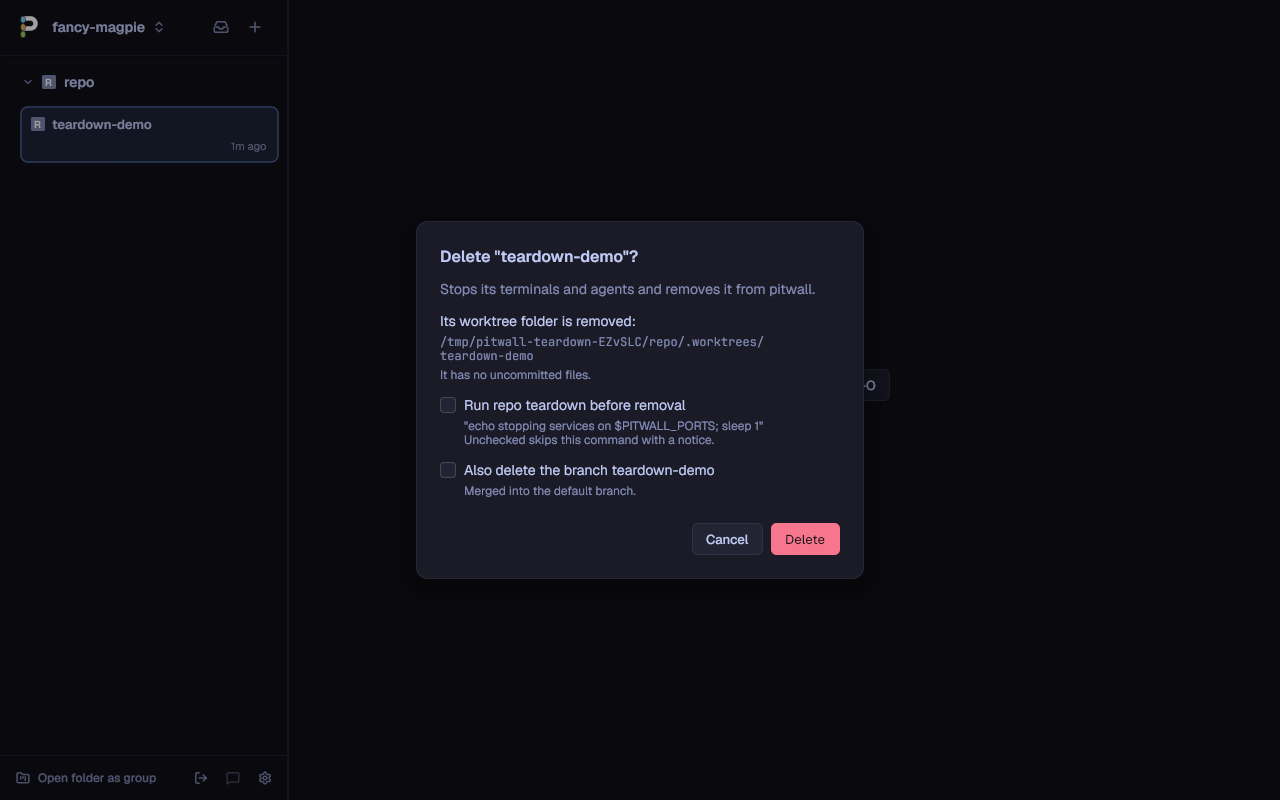
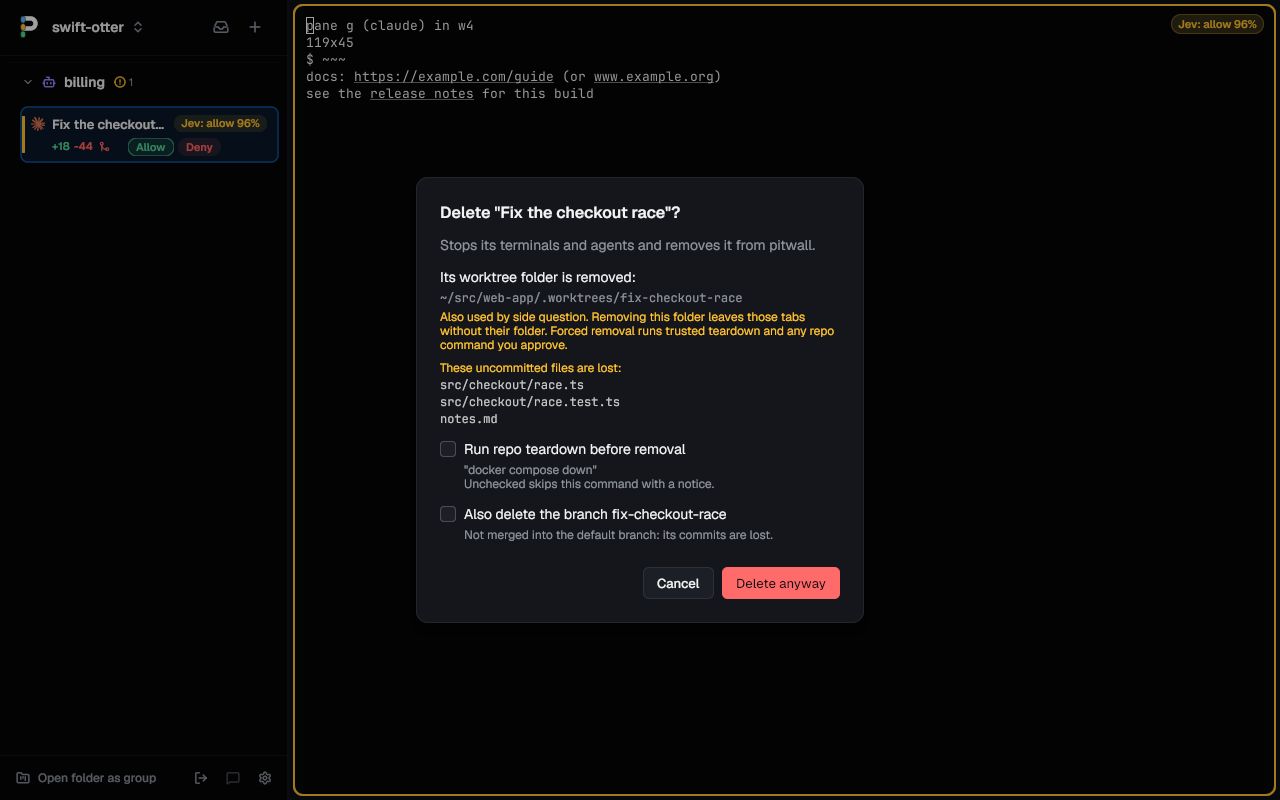
Keep shared-folder checks ahead of teardown

diff --git a/internal/daemon/teardown_review_test.go b/internal/daemon/teardown_review_test.go
@@ -277,3 +277,47 @@ func TestGoneWorktreeCanBeDeletedWithTeardown(t *testing.T) {
 		t.Fatalf("notice %q", d.state().Notice)
 	}
 }
+
+func TestSharedWorktreeRefusesBeforeTeardown(t *testing.T) {
+	for _, mode := range []string{"delete", "archive", "orphan", "force", "force skips"} {
+		t.Run(mode, func(t *testing.T) {
+			d, repo, cfg := teardownRepo(t)
+			owner := reviewTree(t, d, "feature")
+			sub := filepath.Join(owner.Path, "sub")
+			must(t, os.Mkdir(sub, 0o700))
+			must(t, d.handle(t.Context(), proto.NewSession{Name: "side question", Cwd: sub}))
+			must(t, os.WriteFile(cfg, []byte("[worktrees]\nteardown = 'touch ../../stopped'"), 0o600))
+			if mode == "orphan" {
+				must(t, d.handle(t.Context(), proto.KillSession{WorkspaceID: owner.ID}))
+				if err := d.handle(t.Context(), proto.DeleteWorktree{Root: repo, Path: owner.Path, Force: true}); err == nil {
+					t.Fatal("shared orphan removed")
+				}
+			} else if mode == "archive" {
+				mergeReviewTrees(d, t.Context())
+				d.worktreeJobs.Wait()
+			} else if err := d.handle(t.Context(), proto.DeleteWorkspace{WorkspaceID: owner.ID}); err == nil {
+				t.Fatal("shared worktree removed")
+			}
+			if _, err := os.Stat(sub); err != nil {
+				t.Fatal("shared folder lost", err)
+			}
+			marker := filepath.Join(repo, "stopped")
+			if _, err := os.Stat(marker); !os.IsNotExist(err) {
+				t.Fatal("teardown ran before the shared-folder refusal", err)
+			}
+			if !strings.Contains(d.state().Notice, "side question") {
+				t.Fatalf("missing shared-folder notice: %q", d.state().Notice)
+			}
+			if strings.HasPrefix(mode, "force") {
+				must(t, d.handle(t.Context(), proto.DeleteWorkspace{WorkspaceID: owner.ID, Force: true, SkipTeardown: mode == "force skips"}))
+				if _, err := os.Stat(owner.Path); !os.IsNotExist(err) {
+					t.Fatal("forced worktree remains", err)
+				}
+				_, err := os.Stat(marker)
+				if (err == nil) != (mode == "force") {
+					t.Fatalf("forced teardown: %v", err)
+				}
+			}
+		})
+	}
+}

diff --git a/cmd/pitwall/worktree_review_test.go b/cmd/pitwall/worktree_review_test.go
@@ -166,3 +166,44 @@ func TestWorktreeFailurePrintedOnce(t *testing.T) {
 		})
 	}
 }
+
+func TestWorktreeLocalSharedTeardown(t *testing.T) {
+	repo := gitRepo(t)
+	t.Setenv("XDG_CONFIG_HOME", t.TempDir())
+	path, _, err := gitstat.AddWorktree(t.Context(), repo, "shared", model.WorktreeFrom{})
+	if err != nil {
+		t.Fatal(err)
+	}
+	if err := os.MkdirAll(filepath.Dir(config.Path()), 0o700); err != nil {
+		t.Fatal(err)
+	}
+	if err := os.WriteFile(config.Path(), []byte("[worktrees]\nteardown = 'touch ../../stopped'"), 0o600); err != nil {
+		t.Fatal(err)
+	}
+	state := model.State{Workspaces: []model.Workspace{{ID: "owner", Path: path}, {ID: "fork", Path: filepath.Join(path, "sub"), Name: "side question", NameSet: true}}}
+	var stderr strings.Builder
+	if err := removeWorktree(t.Context(), nil, nil, &stderr, state, repo, "shared", false, true, proto.Level); err == nil || !strings.Contains(err.Error(), "side question") {
+		t.Fatalf("shared removal: %v", err)
+	}
+	if _, err := os.Stat(filepath.Join(repo, "stopped")); !os.IsNotExist(err) {
+		t.Fatal("teardown ran before shared-folder refusal", err)
+	}
+	fakeCLI(t, cliExchange{request: proto.KillSession{WorkspaceID: "owner"}, state: model.State{}})
+	conn, err := dialCLI()
+	if err != nil {
+		t.Fatal(err)
+	}
+	defer conn.Close()
+	if err := removeWorktree(t.Context(), conn, nil, &stderr, state, repo, "shared", true, true, proto.Level); err != nil {
+		t.Fatal(err)
+	}
+	if _, err := os.Stat(path); !os.IsNotExist(err) {
+		t.Fatal("forced worktree remains", err)
+	}
+	if _, err := os.Stat(filepath.Join(repo, "stopped")); !os.IsNotExist(err) {
+		t.Fatal("force ran teardown", err)
+	}
+	if !strings.Contains(stderr.String(), "side question") || !strings.Contains(stderr.String(), "Teardown is skipped") {
+		t.Fatalf("warning: %s", &stderr)
+	}
+}

diff --git a/cmd/pitwall/worktree_test.go b/cmd/pitwall/worktree_test.go
@@ -187,19 +187,19 @@ func TestWorktreeRemoveSharedFolder(t *testing.T) {
 	}
 	before := model.State{Workspaces: []model.Workspace{{ID: "owner", Path: path, WorktreeRoot: repo}, {ID: "fork", Path: path, NameSet: true, Name: "side question"}}}
 	var stderr bytes.Buffer
-	if err := removeWorktree(context.Background(), nil, &stderr, before, repo, "shared", false); err == nil || !strings.Contains(err.Error(), "side question") {
+	if err := removeWorktree(context.Background(), nil, nil, &stderr, before, repo, "shared", false, false, proto.Level); err == nil || !strings.Contains(err.Error(), "side question") {
 		t.Fatalf("rm: %v", err)
 	}
-	fakeCLI(t, cliExchange{request: proto.DeleteWorkspace{WorkspaceID: "owner", Force: true}, state: model.State{}})
+	fakeCLI(t, cliExchange{request: proto.DeleteWorkspace{WorkspaceID: "owner", Force: true, SkipTeardown: true}, state: model.State{}})
 	conn, err := dialCLI()
 	if err != nil {
 		t.Fatal(err)
 	}
 	defer conn.Close()
-	if err := removeWorktree(context.Background(), conn, &stderr, before, repo, "shared", true); err != nil {
+	if err := removeWorktree(context.Background(), conn, nil, &stderr, before, repo, "shared", true, false, proto.Level); err != nil {
 		t.Fatal(err)
 	}
-	if !strings.Contains(stderr.String(), "side question") || !strings.Contains(stderr.String(), "without their folder") {
+	if !strings.Contains(stderr.String(), "side question") || !strings.Contains(stderr.String(), "without their folder") || !strings.Contains(stderr.String(), "Teardown is skipped") {
 		t.Fatalf("warning %q", stderr.String())
 	}
 }

diff --git a/internal/ui/app/worktrees.go b/internal/ui/app/worktrees.go
@@ -400,7 +400,7 @@ func (u *ui) deleteChanges(ws string) []gl.FlexChild {
 	}
 	var used []gl.FlexChild
 	if len(r.UsedBy) > 0 {
-		used = append(used, note("warn", "Also used by "+strings.Join(r.UsedBy, ", ")+". Removing this folder leaves those tabs without their folder."))
+		used = append(used, note("warn", "Also used by "+strings.Join(r.UsedBy, ", ")+". Removing this folder leaves those tabs without their folder. Forced removal runs trusted teardown and any repo command you approve."))
 	}
 	if r.Err != "" {
 		return append(used, note("warn", r.Err))

diff --git a/internal/ui/app/fork_test.go b/internal/ui/app/fork_test.go
@@ -28,8 +28,9 @@ func TestDeleteSharedWorktree(t *testing.T) {
 	st := b.State()
 	u.modal.kind = modalDelete
 	u.modal.ws = "w4"
+	u.modal.wt.approved = "stop-stack"
 	u.confirmModal(&st)
-	if got := b.Sent(); len(got) != 1 || got[0] != (proto.DeleteWorkspace{WorkspaceID: "w4", Force: true}) {
+	if got := b.Sent(); len(got) != 1 || got[0] != (proto.DeleteWorkspace{WorkspaceID: "w4", Force: true, Teardown: "stop-stack"}) {
 		t.Fatalf("delete %v", got)
 	}
 }

diff --git a/cmd/pitwall/worktree.go b/cmd/pitwall/worktree.go
@@ -404,7 +404,7 @@ func removeWorktree(ctx context.Context, conn *cliConn, in *os.File, errOut io.W
 		if !force {
 			return fmt.Errorf("%s; use --force to remove it", message)
 		}
-		fmt.Fprintln(errOut, "Warning: "+message)
+		fmt.Fprintln(errOut, "Warning: "+message+". Teardown is skipped with --force.")
 	}
 	_, pathErr := os.Stat(path)
 	if !force && !errors.Is(pathErr, os.ErrNotExist) {

diff --git a/docs/usage.md b/docs/usage.md
@@ -125,6 +125,8 @@ while another tab uses that folder or a folder inside it. The error names
 the other tab. The delete dialog warns before **Delete anyway**; the CLI
 requires `--force` and prints the same warning. Closing a tab alone keeps
 the worktree folder.
+This refusal happens before teardown. **Delete anyway** runs trusted teardown
+and any repo command you approve. `worktree rm --force` skips teardown.
 
 <img src="media/fork-delete-dark.png" alt="Shared-folder warning before deleting a worktree, dark theme" width="480"> <img src="media/fork-delete-light.png" alt="Shared-folder warning before deleting a worktree, light theme" width="480">
 
@@ -706,6 +708,7 @@ Set `archive_on_merge = true` under `[git]` to archive a merged worktree
 tab without the click. If another tab uses its folder or a subfolder,
 archiving refuses and shows a notice naming that tab. After closing the
 other tab, archive manually; closing it does not retry the automatic archive.
+Teardown does not run when archiving refuses a shared folder.
 
 In Settings, Agents, Pull requests, turn on **Send CI failures automatically**
 or **Send requested changes automatically**. Both are off by default. The
